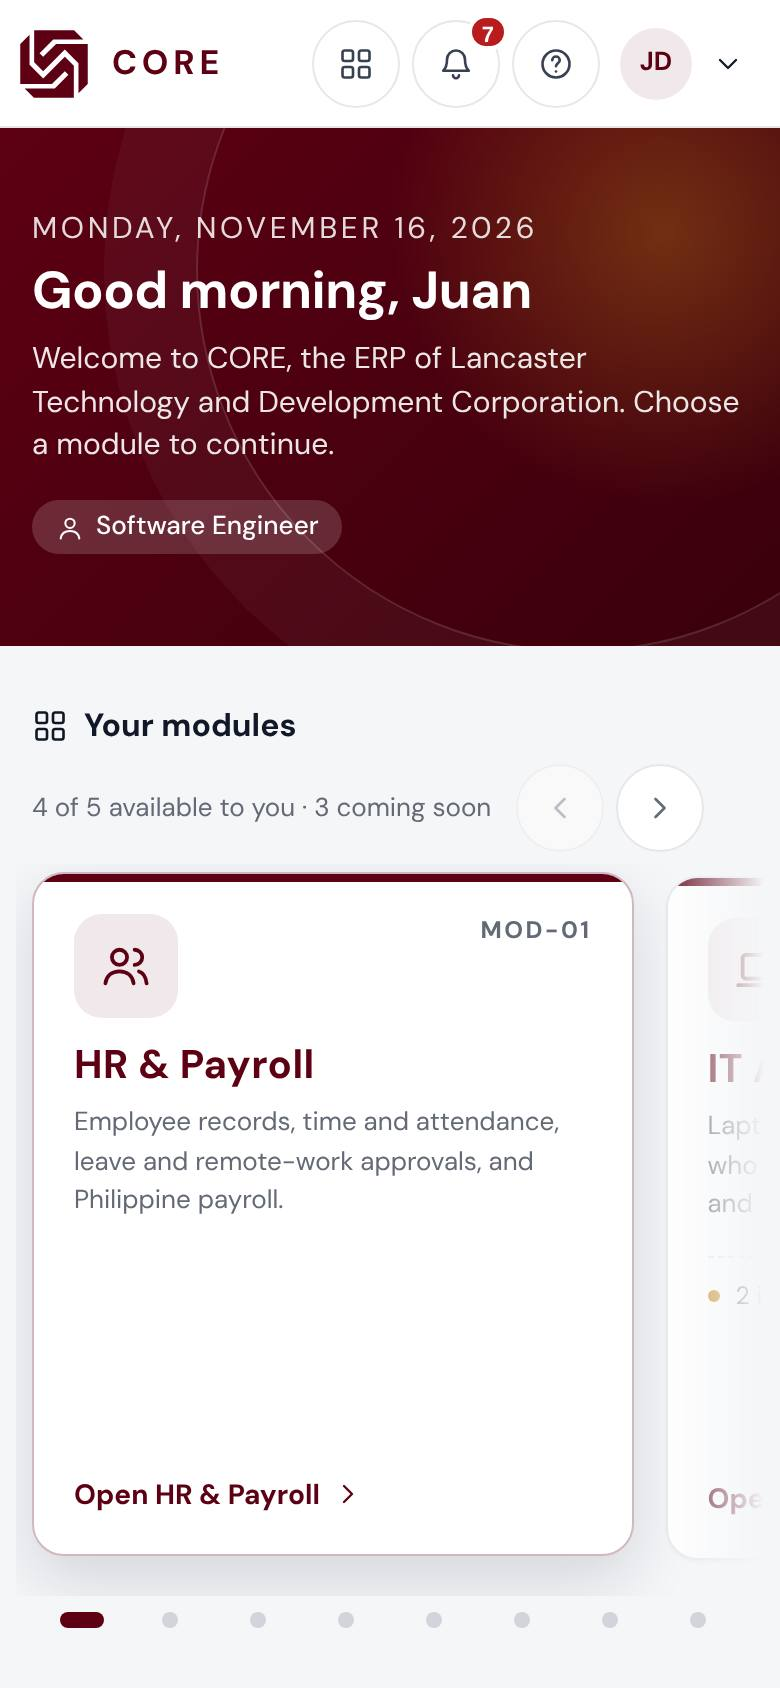
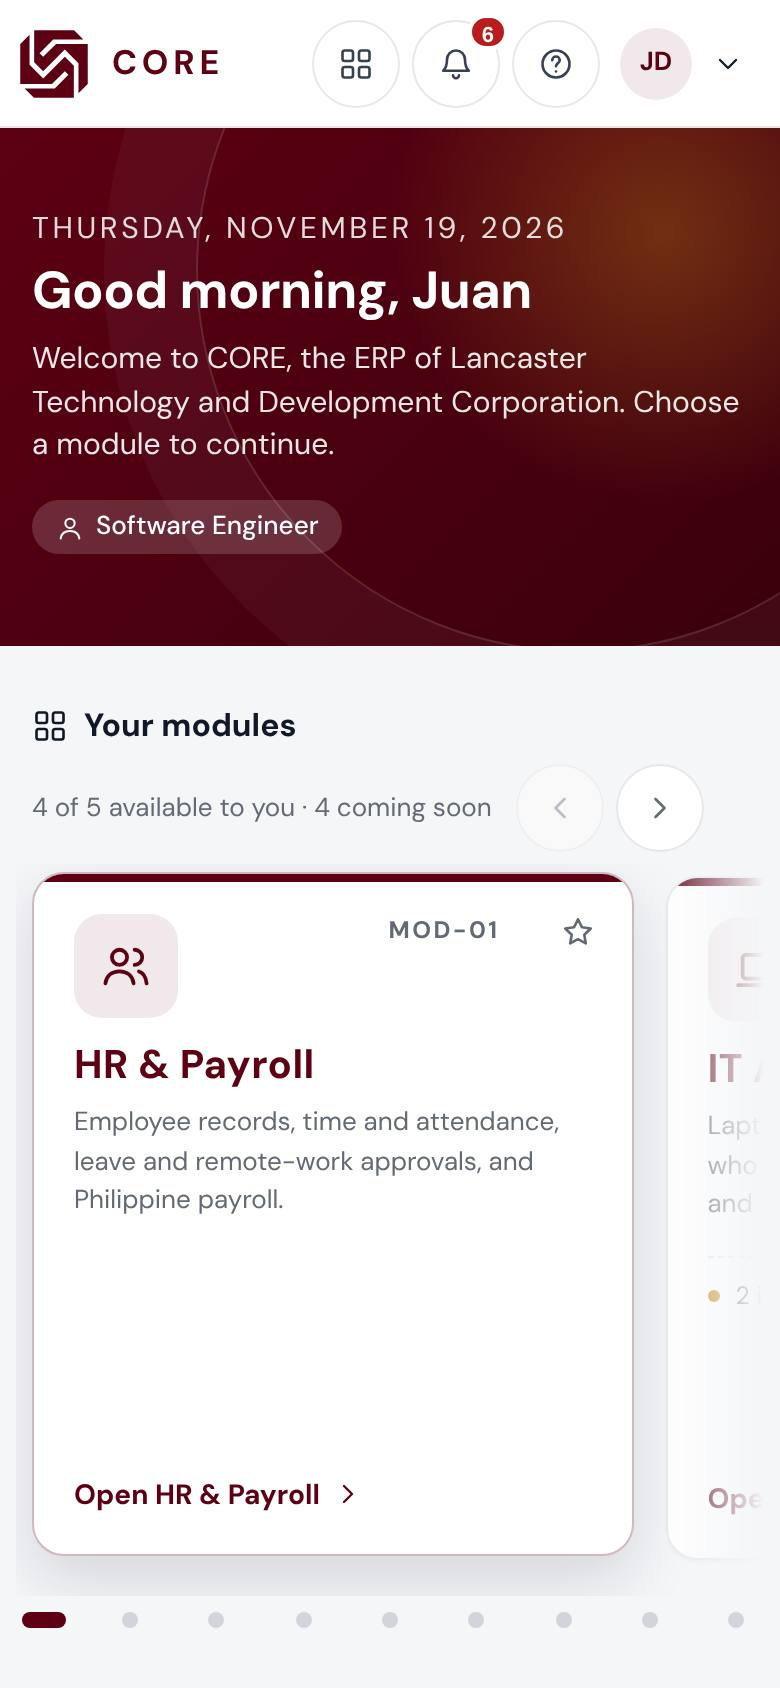
0.40.0-alpha: pin modules to the front of the CORE home; C-suite coming soon
- A star on each card a person may open pins the module to the front;
  pinned modules come first in the order pinned. Saved on the account
  (PUT /api/me/favorite-modules: live modules only, kept in backups),
  so pins follow the person to every device. The row is redrawn in
  place with focus kept on the star and a status message.
- C-suite (MOD-09), the executive dashboard, on the roadmap and shown
  as Coming soon.
- Journeys: pin, check order after signing in again, unpin.
- Getting started guide, what's new, README, dev log; home screenshots
  retaken.

Claude-Session: https://claude.ai/code/session_01JQ4oxiUA7CnD1ir2UC84uB

diff --git a/public/js/views/launcher.js b/public/js/views/launcher.js
@@ -6,7 +6,7 @@ import { companyRoleOf } from '/shared/profile.js';
 import { MODULES } from '../modules.js';
 import { roleOverrides } from '/shared/roles.js';
 import { unseenCount } from './devlog.js';
-import { html, mount } from '../ui.js';
+import { html, mount, toast } from '../ui.js';
 import { icon } from '../icons.js';
 
 function greeting() {
@@ -106,8 +106,21 @@ export async function launcherView(el) {
       <p>${m.description}</p>
       <span class="sys-open">Not available yet</span>
     </div>`;
-  // The ones this account can open come first, then locked ones, then the roadmap.
-  const ordered = [...live.filter((m) => ctx.moduleHome(m.id)), ...live.filter((m) => !ctx.moduleHome(m.id))];
+  // A module this account can open, with its star: pinned ones come first on this page (0.40).
+  const pinned = () => (ctx.user.favoriteModules || []).filter((id) => live.some((m) => m.id === id && ctx.moduleHome(id)));
+  const slot = (m) => {
+    const on = pinned().includes(m.id);
+    return html`<div class="sys-slot${on ? ' pinned' : ''}" data-module="${m.id}">${card(m)}
+      <button type="button" class="sys-pin" data-pin="${m.id}" aria-pressed="${on ? 'true' : 'false'}" aria-label="${on ? `Unpin ${m.name}` : `Pin ${m.name} to the front`}" title="${on ? 'Pinned to the front: click to unpin' : 'Pin to the front'}">${icon('star', 18)}</button></div>`;
+  };
+  // Pinned modules first (in the order pinned), then the others this account can open, then locked
+  // ones, then the roadmap.
+  const ordered = () => {
+    const openable = live.filter((m) => ctx.moduleHome(m.id));
+    const first = pinned().map((id) => openable.find((m) => m.id === id));
+    return [...first, ...openable.filter((m) => !first.includes(m)), ...live.filter((m) => !ctx.moduleHome(m.id))];
+  };
+  const trackItems = () => html`${ordered().map((m) => (ctx.moduleHome(m.id) ? slot(m) : card(m)))}${soon.map(soonCard)}`;
 
   // Administration: the Admin panel first, then shortcuts to the pages used most.
   const admin = [
@@ -135,7 +148,7 @@ export async function launcherView(el) {
         <div class="sys-nav"><span class="muted small">${open} of ${live.length} available to you${soon.length ? ` · ${soon.length} coming soon` : ''}</span>
           <span class="sys-arrows" hidden><button type="button" class="icon-btn" id="sys-prev" aria-label="Previous modules" aria-controls="sys-track">${icon('chevronLeft', 18)}</button><button type="button" class="icon-btn" id="sys-next" aria-label="More modules" aria-controls="sys-track">${icon('chevronRight', 18)}</button></span></div></div>
       <div class="sys-carousel" id="sys-carousel">
-        <div class="sys-track" id="sys-track" role="region" aria-labelledby="sys-heading" tabindex="0">${ordered.map(card)}${soon.map(soonCard)}</div>
+        <div class="sys-track" id="sys-track" role="region" aria-labelledby="sys-heading" tabindex="0">${trackItems()}</div>
       </div>
       <div class="sys-dots" id="sys-dots" hidden></div>
     </section>
@@ -156,7 +169,34 @@ export async function launcherView(el) {
       <span class="core-foot"><img src="/img/core-mark-brand.svg" alt="" /> CORE · ERP by Lancaster</span>
       <span>© ${new Date().getFullYear()} ${ctx.settings.companyName}</span>
     </div></footer>`);
-  modulesCarousel(el.querySelector('#sys-carousel'));
+  const refresh = modulesCarousel(el.querySelector('#sys-carousel'));
+
+  // Pin or unpin: saved on the account (so it follows you to other devices), then the row is
+  // redrawn in its new order with the focus kept on the same star.
+  const track = el.querySelector('#sys-track');
+  track.addEventListener('click', async (e) => {
+    const btn = e.target.closest('[data-pin]');
+    if (!btn) return;
+    e.preventDefault();
+    const id = btn.dataset.pin;
+    const was = pinned();
+    const next = was.includes(id) ? was.filter((x) => x !== id) : [...was, id];
+    btn.disabled = true;
+    try {
+      const r = await api.put('/api/me/favorite-modules', { modules: next });
+      ctx.user.favoriteModules = r.favoriteModules;
+    } catch (err) {
+      btn.disabled = false;
+      toast(err.message || 'Could not save your pinned modules.', 'error');
+      return;
+    }
+    mount(track, trackItems());
+    track.scrollTo({ left: 0, behavior: window.matchMedia('(prefers-reduced-motion: reduce)').matches ? 'auto' : 'smooth' });
+    refresh();
+    track.querySelector(`[data-pin="${id}"]`)?.focus({ preventScroll: true });
+    const name = MODULES.find((m) => m.id === id)?.name || id;
+    toast(next.includes(id) ? `${name} is pinned: it comes first on your CORE home.` : `${name} is no longer pinned.`);
+  });
 }
 
 // "Your modules" as a carousel, as on the ATLAS home: the cards scroll sideways and snap into place
@@ -205,7 +245,7 @@ function modulesCarousel(wrap) {
   });
   // A card reached with Tab is brought fully into view.
   track.addEventListener('focusin', (e) => {
-    const card = e.target.closest('.sys-card');
+    const card = e.target.closest('.sys-slot, .sys-card');
     if (card) card.scrollIntoView({ block: 'nearest', inline: 'nearest', behavior: smooth() });
   });
   let raf = 0;
@@ -216,4 +256,9 @@ function modulesCarousel(wrap) {
   const ro = new ResizeObserver(() => (track.isConnected ? update() : ro.disconnect()));
   ro.observe(track);
   update();
+  // Called after the cards are redrawn (a module pinned or unpinned): the dots are counted again.
+  return () => {
+    drawn = -1;
+    update();
+  };
 }

diff --git a/test/favorite-modules.test.js b/test/favorite-modules.test.js
@@ -1,0 +1,87 @@
+// Modules pinned to the front of the CORE home (0.40), and C-suite on the roadmap.
+import { test } from 'node:test';
+import assert from 'node:assert/strict';
+import fs from 'node:fs';
+import os from 'node:os';
+import path from 'node:path';
+import { openDb } from '../server/db.js';
+import { createApi } from '../server/api.js';
+import { MODULES, SWITCHABLE, PINNABLE, cleanFavoriteModules } from '../shared/modules.js';
+
+const PW = 'Correct-Horse-42';
+function company() {
+  const dir = fs.mkdtempSync(path.join(os.tmpdir(), 'core-pins-'));
+  const db = openDb(path.join(dir, 'db.json'));
+  const handle = createApi(db);
+  const client = () => {
+    let cookie = '';
+    return async (method, url, body = {}) => {
+      try {
+        const res = await handle({ method, headers: { cookie }, socket: { remoteAddress: '10.0.0.5' } }, new URL(url, 'http://localhost'), body);
+        if (res.headers['Set-Cookie']) cookie = res.headers['Set-Cookie'].split(';')[0];
+        return res.data;
+      } catch (err) {
+        return { status: err.status, error: err.message };
+      }
+    };
+  };
+  return { db, handle, client };
+}
+
+test('C-suite is on the roadmap as an executive dashboard, coming soon, and cannot be turned on or pinned', () => {
+  const m = MODULES.find((x) => x.id === 'csuite');
+  assert.ok(m);
+  assert.equal(m.name, 'C-suite');
+  assert.equal(m.status, 'soon');
+  assert.match(m.description, /executive dashboard/i);
+  assert.ok(!SWITCHABLE.includes('csuite'));
+  assert.ok(!PINNABLE.includes('csuite'));
+  assert.equal(new Set(MODULES.map((x) => x.code)).size, MODULES.length, 'module codes are unique');
+});
+
+test('cleanFavoriteModules keeps live modules once, in order, and drops the rest', () => {
+  assert.deepEqual(cleanFavoriteModules(['projects', 'hr', 'projects', 'csuite', 'nope', 7, null, '__proto__']), ['projects', 'hr']);
+  assert.deepEqual(cleanFavoriteModules([]), []);
+  assert.equal(cleanFavoriteModules('hr'), null);
+  assert.equal(cleanFavoriteModules({ 0: 'hr' }), null);
+});
+
+test('each person pins their own modules; the list is saved on the account and comes back after signing in', async () => {
+  const { handle, client } = company();
+  const admin = client();
+  await admin('POST', '/api/auth/setup', { name: 'Ada Admin', username: 'admin', password: PW });
+  await admin('POST', '/api/users', { name: 'Eli PM', username: 'eli', role: 'pm', password: PW, mustChangePassword: false });
+  const eli = client();
+  await eli('POST', '/api/auth/login', { username: 'eli', password: PW });
+
+  assert.deepEqual(await admin('PUT', '/api/me/favorite-modules', { modules: ['projects', 'csuite', 'hr'] }), { favoriteModules: ['projects', 'hr'] });
+  assert.deepEqual(await eli('PUT', '/api/me/favorite-modules', { modules: ['helpdesk'] }), { favoriteModules: ['helpdesk'] });
+  assert.equal((await eli('PUT', '/api/me/favorite-modules', { modules: 'helpdesk' })).status, 400);
+  assert.equal((await eli('PUT', '/api/me/favorite-modules', {})).status, 400);
+
+  // Signed in again (another device): the same pins, each person their own.
+  const again = client();
+  const me = await again('POST', '/api/auth/login', { username: 'admin', password: PW });
+  assert.deepEqual((me.user || me).favoriteModules, ['projects', 'hr']);
+  const status = await eli('GET', '/api/auth/status');
+  assert.deepEqual(status.user.favoriteModules, ['helpdesk']);
+
+  // Unpinning everything leaves an empty list; signed out, nothing can be saved.
+  assert.deepEqual(await eli('PUT', '/api/me/favorite-modules', { modules: [] }), { favoriteModules: [] });
+  assert.equal((await client()('PUT', '/api/me/favorite-modules', { modules: ['hr'] })).status, 401);
+  handle.monitor.stop();
+});
+
+test('pinned modules survive a backup and restore; unknown ones in a backup are dropped', async () => {
+  const { db, handle, client } = company();
+  const admin = client();
+  await admin('POST', '/api/auth/setup', { name: 'Ada Admin', username: 'admin', password: PW });
+  await admin('PUT', '/api/me/favorite-modules', { modules: ['crm', 'assets'] });
+  const backup = JSON.parse(JSON.stringify(db.data));
+  backup.users[0].favoriteModules = ['crm', 'csuite', 'assets', 'gone'];
+  await admin('PUT', '/api/me/favorite-modules', { modules: [] });
+  const r = await admin('POST', '/api/admin/import', { ...backup, password: PW });
+  assert.ok(!r.error, r.error);
+  assert.deepEqual(db.data.users[0].favoriteModules, ['crm', 'assets']);
+  handle.monitor.stop();
+});

diff --git a/server/api.js b/server/api.js
@@ -26,7 +26,7 @@ import { registerAssetRoutes } from './assets.js';
 import { emptyData, mergeSettings } from './db.js';
 import { ROLES, userCan, setRoleOverrides, cleanOverrides, roleOverrides, usesAdminPanel } from '../shared/roles.js';
 import { cleanCompanyRole, companyRoleOf, moduleAccess } from '../shared/profile.js';
-import { moduleOfApi, moduleOn, moduleName, cleanModuleConfig } from '../shared/modules.js';
+import { moduleOfApi, moduleOn, moduleName, cleanModuleConfig, cleanFavoriteModules } from '../shared/modules.js';
 import { registerAdminRoutes } from './config.js';
 import { validateBranding, publicBrand, settingsForBrowser } from './branding.js';
 import {
@@ -342,6 +342,9 @@ function backupUsers(list) {
     for (const k of ['createdAt', 'lastLoginAt']) if (!optional(raw[k], (v) => isText(v, 40))) throw bad(i, `has an invalid "${k}"`);
     const u = { id: raw.id, username: raw.username, name: raw.name.trim(), role: raw.role, employeeId: raw.employeeId || null, active: raw.active, passwordHash: raw.passwordHash };
     for (const k of ['mustChangePassword', 'helpdeskAgent', 'crmAccess', 'pmAccess', 'pmDigest', 'demo', 'createdAt', 'lastLoginAt']) if (raw[k] !== undefined && raw[k] !== null) u[k] = raw[k];
+    // Modules pinned to the front of the CORE home (0.40): unknown ones are dropped, not refused.
+    const pinned = cleanFavoriteModules(raw.favoriteModules);
+    if (pinned?.length) u.favoriteModules = pinned;
     // The role in the company (0.32): kept as cleaned text.
     if (raw.companyRole !== undefined && raw.companyRole !== null) {
       let role;
@@ -810,6 +813,15 @@ export function createApi(db, { rateLimits = false, digestMail, digestClock } = 
     const user = users().find((u) => u.id === params.id);
     if (!user?.avatar?.id) throw new HttpError(404, 'No picture.');
     return { data: files.buffer(user.avatar), headers: { 'Content-Type': user.avatar.type, 'Content-Disposition': 'inline; filename="profile"', 'Content-Security-Policy': "default-src 'none'; sandbox", 'X-Content-Type-Options': 'nosniff', 'Cache-Control': 'private, max-age=31536000, immutable' } };
+  });
+  // Modules pinned to the front of this person's CORE home, in the order pinned (their own choice:
+  // no audit entry). Only live modules; unknown ones are dropped.
+  route('PUT', '/api/me/favorite-modules', 'auth', ({ user, body }) => {
+    const list = cleanFavoriteModules(body?.modules);
+    if (!list) throw new HttpError(400, 'Send the pinned modules as a list.');
+    user.favoriteModules = list;
+    db.save();
+    return { favoriteModules: list };
   });
   route('PUT', '/api/me/avatar', 'auth', ({ user, body }) => {
     setAvatar(user, body?.file);

diff --git a/public/css/styles.css b/public/css/styles.css
@@ -439,6 +439,21 @@ a.sys-card:hover { text-decoration: none; transform: translateY(-2px); box-shado
 .sys-card.soon .sys-name, .sys-card.soon .sys-open { color: var(--muted); }
 .sys-card.soon .sys-title { color: var(--text-2); }
 .sys-card.soon .sys-open { font-weight: 500; }
+.sys-track > .sys-slot { scroll-snap-align: start; position: relative; display: flex; min-width: 0; }
+.sys-slot > .sys-card { flex: 1; min-width: 0; }
+.sys-slot .sys-top { padding-right: 42px; }
+.sys-slot:hover > a.sys-card { transform: translateY(-2px); box-shadow: var(--shadow-lg); border-color: var(--brand-line); }
+.sys-slot.pinned > .sys-card { border-color: var(--brand-line); }
+/* The star that pins a module to the front of the CORE home (0.40). */
+.sys-pin { position: absolute; right: 10px; top: 12px; width: 36px; height: 36px; display: grid; place-items: center; padding: 0; border-radius: 10px; border: 1px solid transparent; background: transparent; color: var(--muted); cursor: pointer; transition: transform 0.14s, color 0.14s, background 0.14s; }
+.sys-pin:hover { background: var(--surface-2); border-color: var(--border); color: var(--accent); }
+.sys-pin:focus-visible { outline: 2px solid var(--brand); outline-offset: 2px; }
+.sys-pin[aria-pressed="true"] { color: var(--accent); }
+.sys-pin[aria-pressed="true"] .ic { fill: currentColor; }
+.sys-pin:disabled { opacity: 0.5; cursor: progress; }
+.sys-slot:hover .sys-pin { transform: translateY(-2px); }
+@media (pointer: coarse) { .sys-pin { width: 44px; height: 44px; right: 6px; top: 8px; } .sys-slot .sys-top { padding-right: 46px; } }
+@media (prefers-reduced-motion: reduce) { .sys-pin, .sys-slot:hover .sys-pin { transition: none; transform: none; } }
 .hub-foot { margin-top: auto; padding: 22px 0; border-top: 1px solid var(--border); color: var(--muted); font-size: 12px; }
 .hub-foot .hub-wrap { display: flex; justify-content: space-between; gap: 12px; flex-wrap: wrap; }
 body.hub .topbar { padding-left: 24px; }

diff --git a/shared/devlog.js b/shared/devlog.js
@@ -28,6 +28,18 @@ export const CHANGE_TYPES = { new: 'Added', improved: 'Changed', fixed: 'Fixed' 
 
 export const DEVLOG = [
   {
+    version: '0.40.0-alpha',
+    date: '2026-11-19',
+    title: 'Pinned modules, and C-suite on the roadmap',
+    modules: ['system', 'deploy'],
+    notes: 'The CORE home puts each person\'s most-used modules first, and shows the executive dashboard that comes next.',
+    changes: [
+      ['new', 'system', 'Pin modules to the front of the CORE home: a star on each card a person may open (beside the module code) pins it; pinned modules come first in the order pinned, then the others, the locked ones and the roadmap. Saved on the account (PUT /api/me/favorite-modules, live modules only, kept in backups), so pins follow the person to every device; the row is redrawn in place with the focus kept on the star, and a status message says what changed.'],
+      ['new', 'system', 'C-suite (MOD-09) on the roadmap, shown on the CORE home as Coming soon: the executive dashboard, with revenue and pipeline, headcount and payroll cost, projects at risk and service levels from every module on one page.'],
+      ['new', 'deploy', 'The browser journeys before each deploy also pin and unpin a module, and check it stays first after signing in again.'],
+    ],
+  },
+  {
     version: '0.39.0-alpha',
     date: '2026-11-19',
     title: 'Third security assessment (VAPT round 3)',

diff --git a/public/js/icons.js b/public/js/icons.js
@@ -100,6 +100,8 @@ const P = {
   dashboard: '<rect x="3" y="3" width="8" height="10" rx="1.5"/><rect x="13" y="3" width="8" height="6" rx="1.5"/><rect x="13" y="11" width="8" height="10" rx="1.5"/><rect x="3" y="15" width="8" height="6" rx="1.5"/>',
   paperclip: '<path d="M20.5 11.5l-8.4 8.4a5 5 0 01-7.1-7.1l8.4-8.4a3.3 3.3 0 014.7 4.7l-8.4 8.4a1.7 1.7 0 01-2.4-2.4l7.7-7.7"/>',
   eye: '<path d="M2 12s3.6-7 10-7 10 7 10 7-3.6 7-10 7S2 12 2 12z"/><circle cx="12" cy="12" r="3"/>',
+  star: '<path d="M12 3.5l2.6 5.3 5.9.9-4.3 4.1 1 5.8L12 16.8l-5.2 2.8 1-5.8-4.3-4.1 5.9-.9z"/>',
+  gauge: '<path d="M3.5 17a8.5 8.5 0 1117 0"/><path d="M12 17l4.5-5.5"/><circle cx="12" cy="17" r="1.3" fill="currentColor"/><path d="M6.5 11.5l1 .8M12 6.5v1.3M17.5 11.5l-1 .8"/>',
   grip: '<circle cx="9" cy="6" r="1" fill="currentColor"/><circle cx="15" cy="6" r="1" fill="currentColor"/><circle cx="9" cy="12" r="1" fill="currentColor"/><circle cx="15" cy="12" r="1" fill="currentColor"/><circle cx="9" cy="18" r="1" fill="currentColor"/><circle cx="15" cy="18" r="1" fill="currentColor"/>',
 };
 

diff --git a/shared/modules.js b/shared/modules.js
@@ -19,7 +19,16 @@ export const MODULES = [
 
   { id: 'documents', code: 'MOD-08', name: 'Document Management', glyph: 'folder', status: 'soon',
     description: 'Contracts, compliance files, templates and approvals.' },
+  { id: 'csuite', code: 'MOD-09', name: 'C-suite', glyph: 'gauge', status: 'soon', tagline: 'Executive dashboard',
+    description: 'The executive dashboard: revenue and pipeline, headcount and payroll cost, projects at risk and service levels from every module, on one page.' },
 ];
+
+// Modules a person may pin to the front of their CORE home (live ones only), at most this many.
+export const PINNABLE = MODULES.filter((m) => m.status === 'live').map((m) => m.id);
+export function cleanFavoriteModules(list) {
+  if (!Array.isArray(list)) return null;
+  return [...new Set(list.filter((id) => typeof id === 'string' && PINNABLE.includes(id)))];
+}
 
 // The modules an administrator can turn on or off for the company (Admin panel → Modules).
 export const SWITCHABLE = MODULES.filter((m) => m.status === 'live').map((m) => m.id);

diff --git a/docs/guides/getting-started.md b/docs/guides/getting-started.md
@@ -36,7 +36,7 @@ This tour uses the demo data. Sign in as `employee.demo` with the password `demo
 
 ![The CORE sign-in page](getting-started-signin.jpg)
 
-2. The **CORE home** greets you by name, with today's date and your account type. **Your modules** has a card for each module. A module you may open shows a few live figures (for Juan: the equipment assigned to him and his open ticket) and **Open** with its name. A locked card says *No access · ask your administrator*. The cards sit in one row that slides sideways: swipe it on a phone, or use the arrows or dots beside **Your modules** (or the arrow keys once the row is selected). After the modules you may open come the locked ones, then the modules still in development, greyed out and marked *Coming soon*. A module your company has turned off is not shown at all.
+2. The **CORE home** greets you by name, with today's date and your account type. **Your modules** has a card for each module. A module you may open shows a few live figures (for Juan: the equipment assigned to him and his open ticket) and **Open** with its name. A locked card says *No access · ask your administrator*. The cards sit in one row that slides sideways: swipe it on a phone, or use the arrows or dots beside **Your modules** (or the arrow keys once the row is selected). Modules you have pinned come first (see [Pin your modules to the front](#pin-your-modules-to-the-front)), then the other modules you may open, then the locked ones, then the modules still in development, greyed out and marked *Coming soon*, such as **C-suite**, the executive dashboard. A module your company has turned off is not shown at all.
 
 ![The CORE home, with a card per module](getting-started-home.jpg)
 
@@ -82,6 +82,16 @@ If your company requires 2-step verification and you have not set it up, CORE sh
 2. The module opens on its first page. Its pages are in the side menu on the left.
 
 To go back to the CORE home, choose the CORE logo at the top left, or **All modules** in the modules menu.
+
+### Pin your modules to the front
+
+The modules you use most can come first on your CORE home.
+
+1. On the CORE home, choose the **star** at the top right of a module's card, beside its code. The star fills in and the card moves to the front of **Your modules**.
+2. Pin as many as you like: pinned modules come first, in the order you pinned them.
+3. To unpin one, choose its filled star. It goes back to its usual place.
+
+Your pins are kept with your account, so they are the same on your phone and on any computer you sign in on. Only modules you may open can be pinned; one coming soon cannot.
 
 ### See your notifications
 
@@ -248,7 +258,7 @@ Choose your name at the top right, then **Sign out**. You are also signed out af
 | Screen | What it is for |
 |---|---|
 | Sign-in page | Your username and password; the 2-step code; choosing your own password the first time |
-| CORE home | Your modules in a sliding row (the ones you may open, with live figures, then the ones coming soon); for administrators, the **Admin panel** card and shortcuts |
+| CORE home | Your modules in a sliding row (the ones you pinned first, then the others you may open, with live figures, then the ones coming soon); for administrators, the **Admin panel** card and shortcuts |
 | Admin panel | For administrators: users, roles, modules, settings, records and backups (see [the administrator's guide](admin)) |
 | Modules menu (grid button) | Switching modules from anywhere |
 | Notifications (the bell) | What others did that concerns you, from every module; the number of unread ones; open one to go to it |

diff --git a/README.md b/README.md
@@ -12,7 +12,8 @@ After signing in, everyone lands on the **CORE home page** and picks a module; t
 | **Sales & CRM** | Leads, accounts and contacts, a deal pipeline with forecasts, public bids with document checklists, and contract renewals |
 | **Project Management** | Client, government and internal projects: milestones and contract deliverables, a task board with effort sizes, a timeline, My work, and time tracking with a weekly timesheet where a project needs it |
 
-Finance & Accounting, Procurement and Document Management are listed under **On the roadmap**.
+Finance & Accounting, Procurement, Document Management and C-suite (an executive dashboard) are shown on the CORE home as **Coming soon**.
+Each person can pin the modules they use most with the star on the card; pinned modules come first.
 A module the user's account cannot use shows **No access**; a module the company turned off (Admin panel → Modules) is not shown, except to administrators.
 
 Administrators (and accounts given an administration permission) also get the **Admin panel**: see [Admin panel](#admin-panel).

diff --git a/docs/guides/whats-new.md b/docs/guides/whats-new.md
@@ -9,6 +9,10 @@ order: 2
 
 ## November 2026
 
+### Pinned modules, and C-suite on the way (0.40)
+- **Pin your modules**: the star on a module's card on the CORE home puts it first, and your pins follow you to every device. See [Pin your modules to the front](getting-started#pin-your-modules-to-the-front).
+- **C-suite**, an executive dashboard with the key figures from every module on one page, is on the CORE home as *Coming soon*.
+
 ### Security fixes (0.39)
 - A third security assessment of CORE: the **Security monitor** shows the account checks, devices and addresses only to those who manage accounts, feedback ignores hidden direction characters, and on the AWS server the off-server backups are sealed and checked before a restore, updates need the approved **production** step, and CORE cannot change its own program files. See [Watch the security monitor](admin#watch-the-security-monitor).
 
